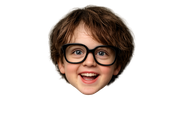
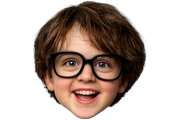
Frilägg nivåansiktena på nytt med hela hakan
De gamla 320-bilderna var beskurna för snävt i botten så att hakan kapades
av en rak kant. Nu är alla tio frilagda från originalen i 1536x1024 med
hela figuren, luft runt om och 512x512 i skärpa. Visningsstorleken är
uppjusterad eftersom figurerna nu har inbyggd marginal, och nyhetsbrevets
småbilder är omgjorda från de nya filerna.

Claude-Session: https://claude.ai/code/session_01HdwMojgAgKRZuA3uKCTgjp

diff --git a/verktyg/animation/anim.html b/verktyg/animation/anim.html
@@ -31,7 +31,7 @@
   .stage { position: absolute; left: 50%; top: 470px; width: 0; height: 0; }
   .ringwrap { position: absolute; left: -230px; top: -230px; width: 460px; height: 460px; }
   .ringwrap svg { display: block; width: 460px; height: 460px; }
-  .face { position: absolute; left: 50%; top: 50%; width: 300px; height: 300px; margin: -150px 0 0 -150px;
+  .face { position: absolute; left: 50%; top: 50%; width: 340px; height: 340px; margin: -170px 0 0 -170px;
     object-fit: contain; will-change: transform; }
 
   .chip { position: absolute; top: 742px; width: 100%; text-align: center; }
